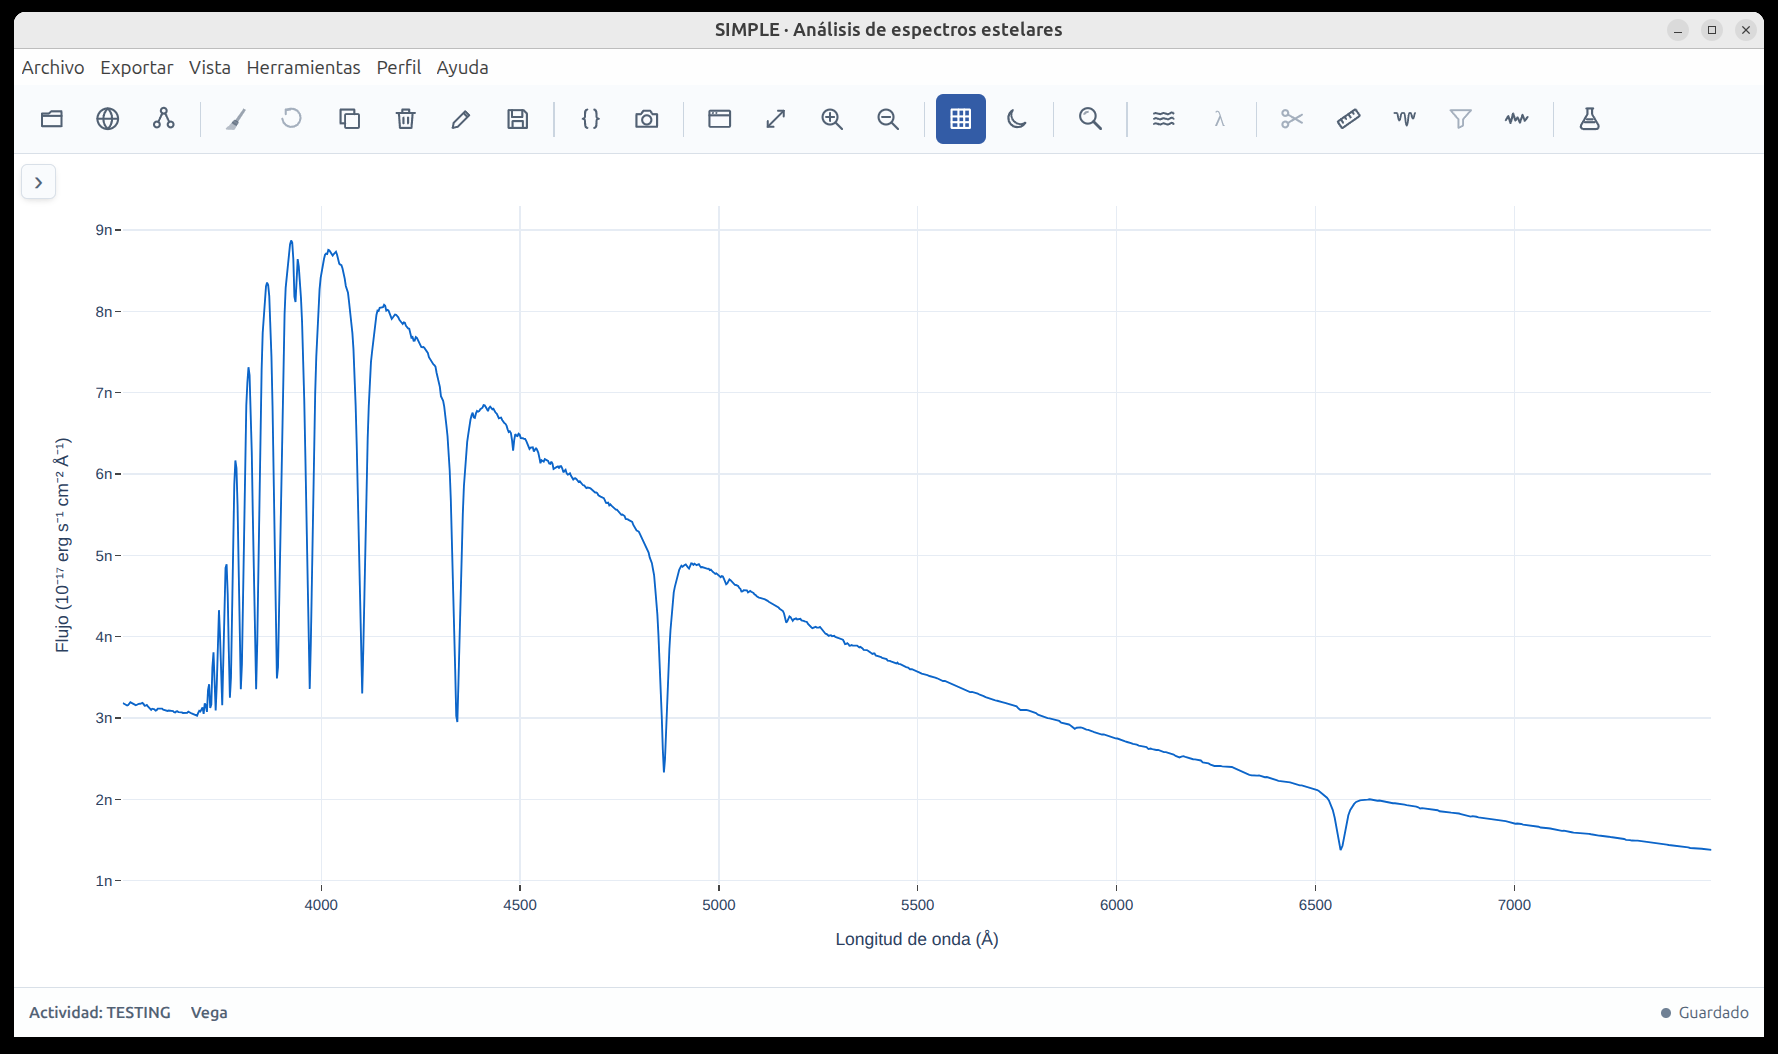
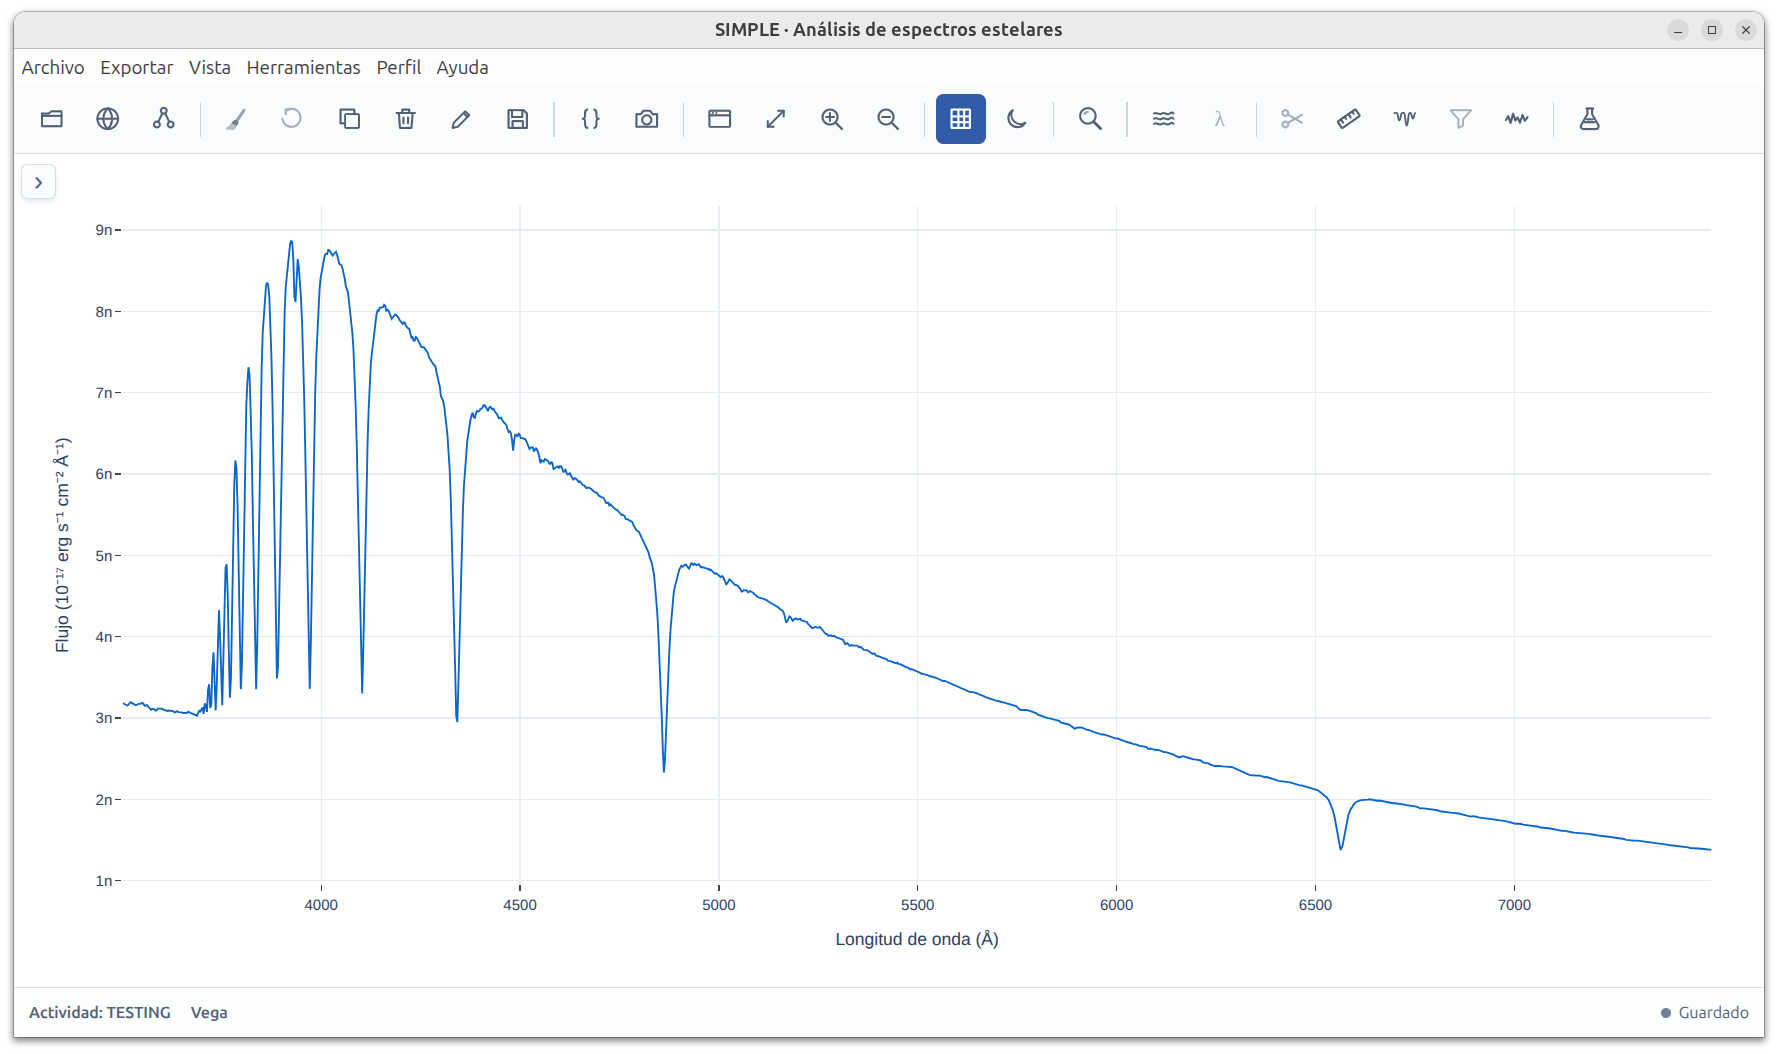
Preserve the screenshot original transparency

Changed region(s): [[0.0, 0.0, 1.0, 1.0]]

diff --git a/simple.html b/simple.html
@@ -19,7 +19,7 @@
       <h1 data-i18n="main_title">SIMPLE · Análisis de espectros estelares</h1>
       <div class="subtitle" data-i18n="main_subtitle">Una aplicación minimalista para el estudio de atmósferas estelares.</div>
       <div class="hero-image-wrap">
-        <img src="simple_vega_alpha.png?v=20260815-6" alt="Vega spectrum preview" class="hero-image">
+        <img src="simple_vega_alpha.png?v=20260815-7" alt="Vega spectrum preview" class="hero-image">
       </div>
 
       <section id="novedades">
